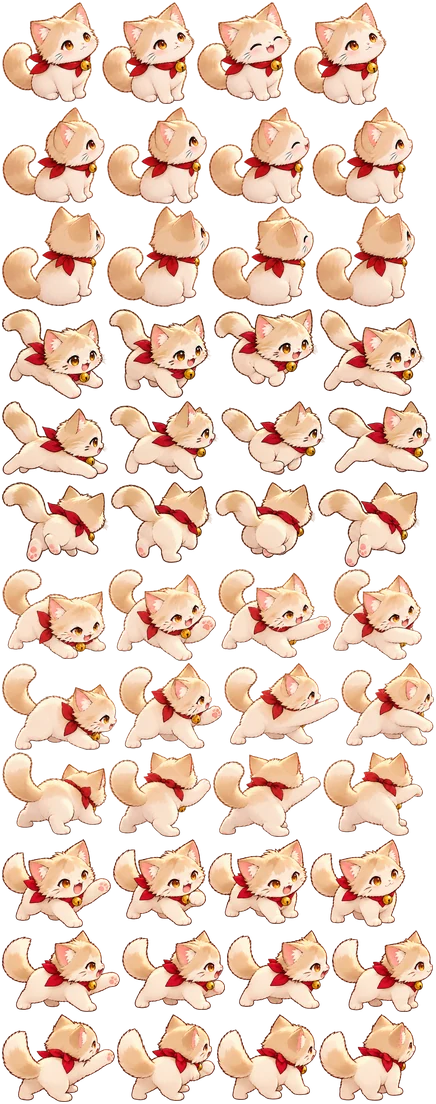
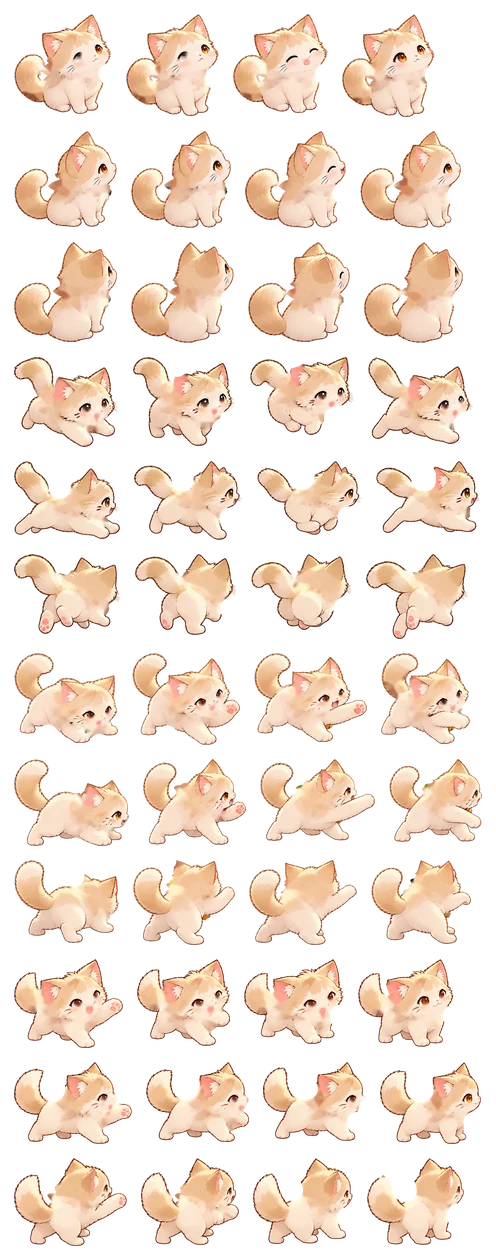
Survivor: friend cats without the scarf, with a thicker outline
- The friend cat atlas is rebuilt with the red scarf and its bell taken
  off every frame (fur painted back where it crossed the body, see-through
  where its tails stuck out); frames keep room for an outline.
- The renderer draws an ink outline about one logical pixel wide round
  the friend cats at the size they are shown, so their lines match Mano's
  and the collector cats'.

Claude-Session: https://claude.ai/code/session_0129eFqVev3PTL5Z78DGK587

diff --git a/src/survivor/render.js b/src/survivor/render.js
@@ -46,6 +46,8 @@ const MAX_FX = 80
 const MAX_NUMBERS = 40
 const MAX_SLASH = 24 // friend cats' scratches on screen at once (a busy screen: a third)
 const SLASH = 0.2 // s a scratch shows
+const FRIEND_INK = '#3b2530' // the friend cats' outline (the art package's ink)
+const FRIEND_LINE = 1.1 // its width in logical px
 const CRIT_COLOR = '#e5303a'
 // the game's round font (survivor.css loads it; until it is in, the system's)
 const GAME_FONT = "'Jua', system-ui, -apple-system, 'Apple SD Gothic Neo', sans-serif"
@@ -970,20 +972,37 @@ export function createRenderer(canvas, img, D, art = { now: () => null }, { scre
   // with its pivot on the cat's feet. Facing west: the east frames mirrored.
   // Scratching: the attack poses through the scratch, then the paw coming
   // back; running: the legs follow the distance run; else idle.
-  function friendAtlas(q) {
-    let c = fcScaled.get(q)
+  function friendAtlas(q, ow) {
+    const key = q + '|' + ow
+    let c = fcScaled.get(key)
     if (c) return c
     const atlas = art.now('friend_cat')
     if (!atlas) return null
-    c = document.createElement('canvas')
-    c.width = Math.ceil(atlas.width * q)
-    c.height = Math.ceil(atlas.height * q)
-    const g = c.getContext('2d')
+    const make = () => {
+      const k = document.createElement('canvas')
+      k.width = Math.ceil(atlas.width * q)
+      k.height = Math.ceil(atlas.height * q)
+      return k
+    }
+    const base = make()
+    const g = base.getContext('2d')
     g.imageSmoothingEnabled = true
     g.imageSmoothingQuality = 'high'
-    g.drawImage(atlas, 0, 0, c.width, c.height)
+    g.drawImage(atlas, 0, 0, base.width, base.height)
+    // the outline: the cat's shape in ink, ow px out all round, under the cat
+    // (the painted sheets' own lines vanish when the cat is drawn this small)
+    const ink = make()
+    const gi = ink.getContext('2d')
+    gi.drawImage(base, 0, 0)
+    gi.globalCompositeOperation = 'source-in'
+    gi.fillStyle = FRIEND_INK
+    gi.fillRect(0, 0, ink.width, ink.height)
+    c = make()
+    const go = c.getContext('2d')
+    for (let a = 0; a < 16; a++) go.drawImage(ink, Math.cos((a * Math.PI) / 8) * ow, Math.sin((a * Math.PI) / 8) * ow)
+    go.drawImage(base, 0, 0)
     if (fcScaled.size > 8) fcScaled.clear()
-    fcScaled.set(q, c)
+    fcScaled.set(key, c)
     return c
   }
 
@@ -991,7 +1010,9 @@ export function createRenderer(canvas, img, D, art = { now: () => null }, { scre
     const s = (FCB.drawH / FC.idleH) * c.size // logical px per atlas px
     const K = kd()
     const q = Math.min(1, Math.ceil(s * K * 20) / 20)
-    const atlas = friendAtlas(q)
+    // about a logical px of outline, as thick as Mano's and the other cats' lines
+    const ow = Math.max(1, Math.round(FRIEND_LINE * K))
+    const atlas = friendAtlas(q, ow)
     if (!atlas) return
     let anim = 'idle'
     let i
@@ -1000,15 +1021,15 @@ export function createRenderer(canvas, img, D, art = { now: () => null }, { scre
     else if (c.moving) (anim = 'move'), (i = Math.floor(c.step / (9 * c.size)) % 4)
     else i = Math.floor(now / FC.ms.idle + c.id * 1.7) % 4
     const f = FC.animations[anim][c.dir][i]
-    const dw = f[2] * s * K
-    const dh = f[3] * s * K
+    // the frame with room round it for the outline (the atlas keeps pad free)
+    const e = Math.min(FC.pad / 2, Math.ceil((ow + 1) / q))
     const flip = c.face < 0
     const ox = (c.x - cam.x) * K
     const oy = (c.y - cam.y) * K
     ctx.imageSmoothingEnabled = true
     if (flip) ctx.setTransform(-1, 0, 0, 1, ox, oy)
     else ctx.setTransform(1, 0, 0, 1, ox, oy)
-    ctx.drawImage(atlas, f[0] * q, f[1] * q, f[2] * q, f[3] * q, -f[4] * s * K, -f[5] * s * K, dw, dh)
+    ctx.drawImage(atlas, (f[0] - e) * q, (f[1] - e) * q, (f[2] + 2 * e) * q, (f[3] + 2 * e) * q, -(f[4] + e) * s * K, -(f[5] + e) * s * K, (f[2] + 2 * e) * s * K, (f[3] + 2 * e) * s * K)
   }
 
   // a scratch: the claw marks across where it landed, turned the way the

diff --git a/scripts/survivor-ep01-assets.py b/scripts/survivor-ep01-assets.py
@@ -26,12 +26,23 @@ scale for every frame of every sheet (never a fit frame by frame).
 friend_size_reference.png (three round bodies) and
 collectors_design_reference.png (단추·호두·모루) are references only: 뚱냥이 draws
 the same frames larger, and the three collectors keep their sprites.
+
+The friend cats wear no scarf (the red scarf is 단추·호두·모루's): the red of
+the scarf (and the gold bell hanging from it) is taken off every frame
+before cutting. Where it lay across the body the fur is painted back in from
+the fur around it (inpainting, colour from opaque fur only); where it stuck
+out past the body (the knot's tails) it becomes see-through. The body's
+outline there is found by closing the rest of the body (a 71 px disc).
+The thick outline that matches the game's other characters is drawn by the
+game at the size the cat is shown (render.js), so frames keep room for it
+(PAD).
 """
 import hashlib
 import json
 import os
 import sys
 
+import cv2
 import numpy as np
 from PIL import Image
 from scipy import ndimage
@@ -65,6 +76,7 @@ FACES = ['se', 'e', 'ne']
 ALPHA = 24
 DEBRIS = 400
 CAT_H = 100  # an idle pose's height in atlas px (the one scale)
+PAD = 14  # atlas px between frames (the outline drawn round them needs room)
 DURATIONS = {'idle': 170, 'move': 75, 'attack': 70, 'recover': 80}
 
 
@@ -82,10 +94,54 @@ def body(im):
     return [int(xs.min()), int(ys.min()), int(xs.max()) + 1, int(ys.max()) + 1]
 
 
+def hsv(a):
+    a = a.astype(np.float32)
+    R, G, B = a[..., 0], a[..., 1], a[..., 2]
+    mx = np.maximum(np.maximum(R, G), B)
+    mn = np.minimum(np.minimum(R, G), B)
+    d = np.maximum(mx - mn, 1e-6)
+    h = np.where(mx == R, ((G - B) / d) % 6, np.where(mx == G, (B - R) / d + 2, (R - G) / d + 4)) * 60
+    return h, (mx - mn) / np.maximum(mx, 1), mx / 255
+
+
+def without_scarf(arr):
+    """the sheet with the red scarf and its bell taken off (see the top)"""
+    A = arr[..., 3]
+    h, s, v = hsv(arr)
+    # the scarf: strong pure red in large pieces (not the pink ears, the
+    # mouths or the amber eyes)
+    red = (A > ALPHA) & (arr[..., 0] >= arr[..., 1]) & (arr[..., 0] >= arr[..., 2]) & ((h < 14) | (h > 340)) & (s > 0.55) & (v > 0.31)
+    lab, n = ndimage.label(red, structure=np.ones((3, 3), bool))
+    sizes = ndimage.sum(red, lab, range(1, n + 1))
+    scarf = np.isin(lab, [i + 1 for i, z in enumerate(sizes) if z >= 150])
+    # the bell: gold touching the scarf, or yellow gold a little further (under a paw)
+    bell = np.zeros_like(scarf)
+    for reach, (h0, h1, s0, v0) in ((18, (25, 62, 0.45, 0.35)), (45, (38, 62, 0.5, 0.45))):
+        near = ndimage.binary_dilation(scarf, iterations=reach)
+        gold = (A > ALPHA) & (h > h0) & (h < h1) & (s > s0) & (v > v0)
+        gl, _ = ndimage.label(gold, structure=np.ones((3, 3), bool))
+        t = np.unique(gl[near & gold])
+        bell |= np.isin(gl, t[t > 0])
+    bell = ndimage.binary_dilation(ndimage.binary_fill_holes(ndimage.binary_closing(bell, iterations=4)), iterations=3)
+    wide = ndimage.binary_dilation(scarf, iterations=25)
+    mask = ndimage.binary_dilation(scarf | bell | (red & wide), iterations=4)
+    body = ((A > ALPHA) & ~mask).astype(np.uint8)
+    k = cv2.getStructuringElement(cv2.MORPH_ELLIPSE, (71, 71))
+    big = cv2.copyMakeBorder(body, 40, 40, 40, 40, cv2.BORDER_CONSTANT, value=0)
+    filled = cv2.morphologyEx(big, cv2.MORPH_CLOSE, k)[40:-40, 40:-40].astype(bool) | ndimage.binary_fill_holes(body)
+    hole = mask | ((A <= ALPHA) & ndimage.binary_dilation(mask, iterations=24))
+    rgb = cv2.inpaint(np.ascontiguousarray(arr[..., :3]), (hole * 255).astype(np.uint8), 9, cv2.INPAINT_TELEA)
+    out = arr.copy()
+    out[..., :3] = np.where(mask[..., None], rgb, arr[..., :3])
+    out[..., 3] = np.where(mask, np.where(filled, 255, 0), A)
+    return out, int(scarf.sum()), int(bell.sum())
+
+
 def frames_of(path):
-    """the sheet's 12 shapes, [row][col] → (box, mask)"""
+    """the sheet's 12 shapes (scarf off), [row][col] → (box, mask)"""
     sheet = Image.open(path).convert('RGBA')
-    arr = np.asarray(sheet)
+    arr, scarf_px, bell_px = without_scarf(np.asarray(sheet))
+    print(f'{os.path.basename(path)}: scarf {scarf_px} px, bell {bell_px} px taken off')
     a = arr[:, :, 3]
     H, W = a.shape
     lab, n = ndimage.label(a > ALPHA, structure=np.ones((3, 3), bool))
@@ -176,7 +232,7 @@ def main(src, review=None):
                 im = im.resize((max(1, round(im.width * k)), max(1, round(im.height * k))), Image.LANCZOS)
                 cells[(s, face, c)] = (im, px * k, py * k)
     # the atlas: one strip per (sheet, face)
-    pad = 2
+    pad = PAD
     rows = [(s, f) for s in SHEETS for f in FACES]
     aw = max(sum(cells[(s, f, c)][0].width + pad for c in range(4)) for s, f in rows) + pad
     ah = sum(max(cells[(s, f, c)][0].height for c in range(4)) + pad for s, f in rows) + pad
@@ -198,10 +254,10 @@ def main(src, review=None):
     images.append({'source': 'cat_units/friend_*_sheet.png', 'id': 'friend_cat', 'kind': 'atlas', 'region': None, 'name': '친구냥이', 'file': atlas_file, 'out': [aw, ah], 'bytes': os.path.getsize(os.path.join(OUT, '..', atlas_file))})
 
     data = {
-        'note': 'MANO SURVIVOR chapter 5 clear package (MANO_EP01, built by scripts/survivor-ep01-assets.py). images: the same form as story-assets.json (merged into it by data.js). friendCat: the friend cat atlas (file), frames [x, y, w, h, pivotX, pivotY] in atlas px per animation and facing (se, e, ne; the west-facing ones are these mirrored), idleH: an idle pose\'s height in atlas px (the one scale), ms: each frame\'s time.',
+        'note': 'MANO SURVIVOR chapter 5 clear package (MANO_EP01, built by scripts/survivor-ep01-assets.py). images: the same form as story-assets.json (merged into it by data.js). friendCat: the friend cat atlas (file; no scarf, see the script), frames [x, y, w, h, pivotX, pivotY] in atlas px per animation and facing (se, e, ne; the west-facing ones are these mirrored), idleH: an idle pose\'s height in atlas px (the one scale), pad: atlas px free round every frame (for the outline the game draws), ms: each frame\'s time.',
         'package': 'MANO_EP01',
         'images': images,
-        'friendCat': {'file': atlas_file, 'idleH': CAT_H, 'ms': DURATIONS, 'faces': FACES, 'animations': anims},
+        'friendCat': {'file': atlas_file, 'idleH': CAT_H, 'pad': PAD, 'ms': DURATIONS, 'faces': FACES, 'animations': anims},
     }
     json.dump(data, open(MAP, 'w', encoding='utf-8'), ensure_ascii=False, indent=1)
     total = sum(x['bytes'] for x in images)
